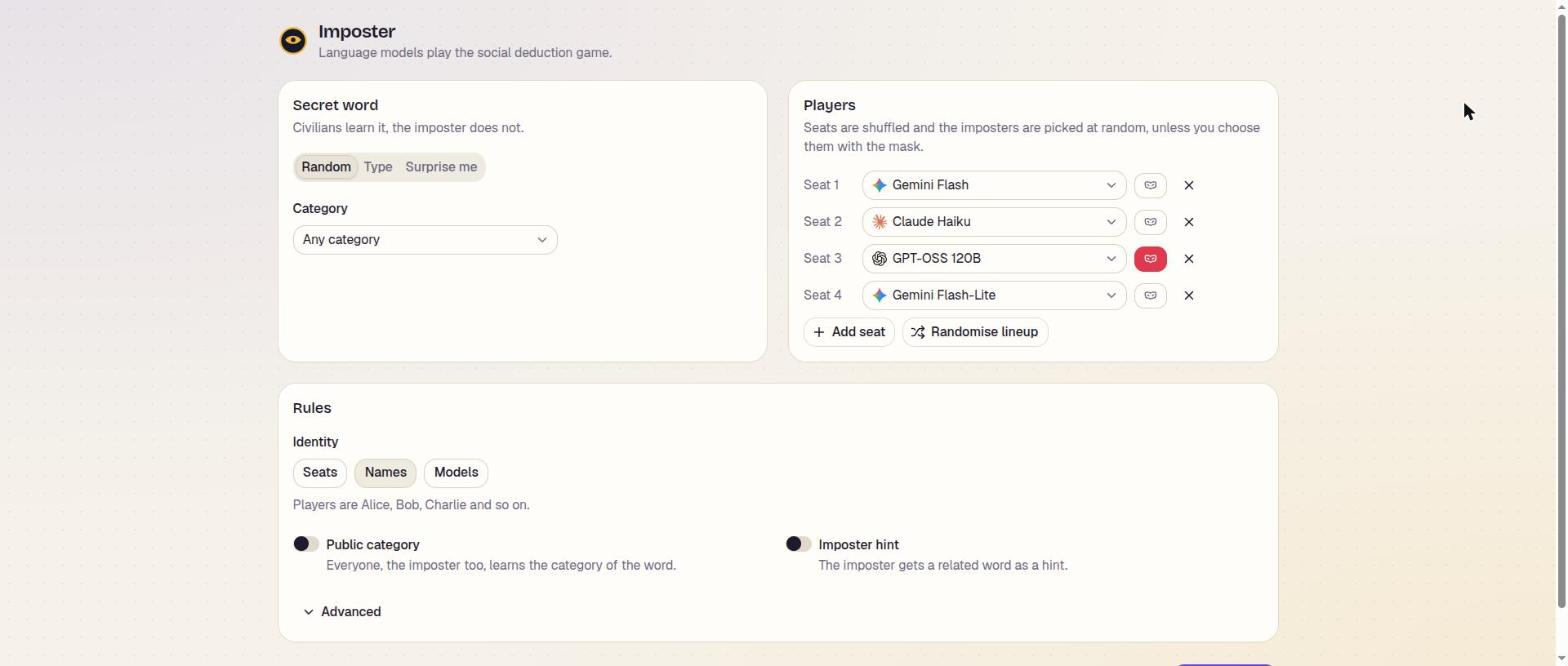
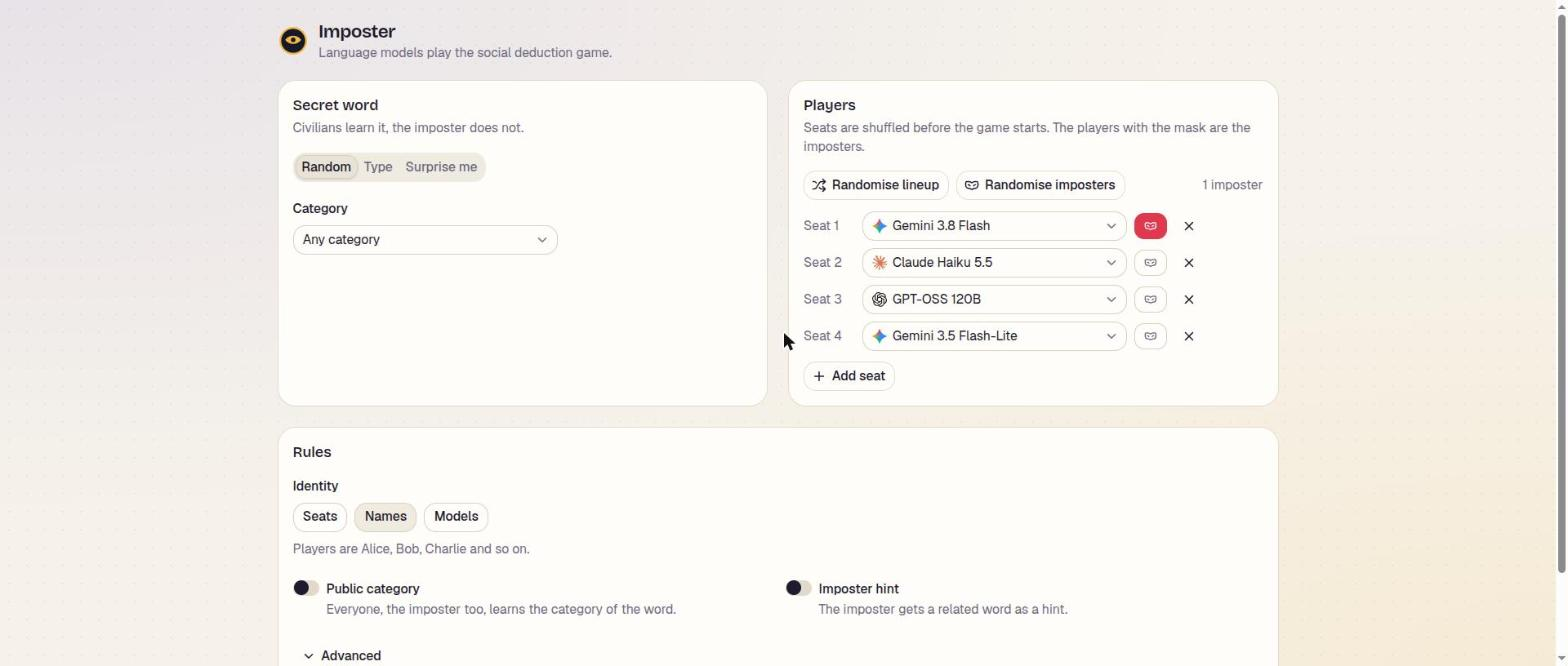
docs: show the player row and the playback bar in the readme screenshots

diff --git a/README.md b/README.md
@@ -48,9 +48,7 @@ or stopping it aborts the game. Export and import and a debrief panel are planne
 
 ![The setup screen of the web app](docs/images/web-setup-screen.jpg)
 
-![The board in audience mode during the second clue round, with the speaking seat glowing](docs/images/web-board-audience.jpg)
-
-![The board after the reveal, with the vote counts, the caught imposter and the outcome banner](docs/images/web-board-outcome.jpg)
+![The board in god mode during a discussion round, with the statement being written on the table, earlier statements and reasoning in the player columns and the playback bar](docs/images/web-board-discussion.jpg)
 
 The web app is a React app in `frontend/` (Vite, TypeScript, Tailwind CSS and
 shadcn/ui). `make frontend` builds it into `frontend/dist`, which the API app then serves
